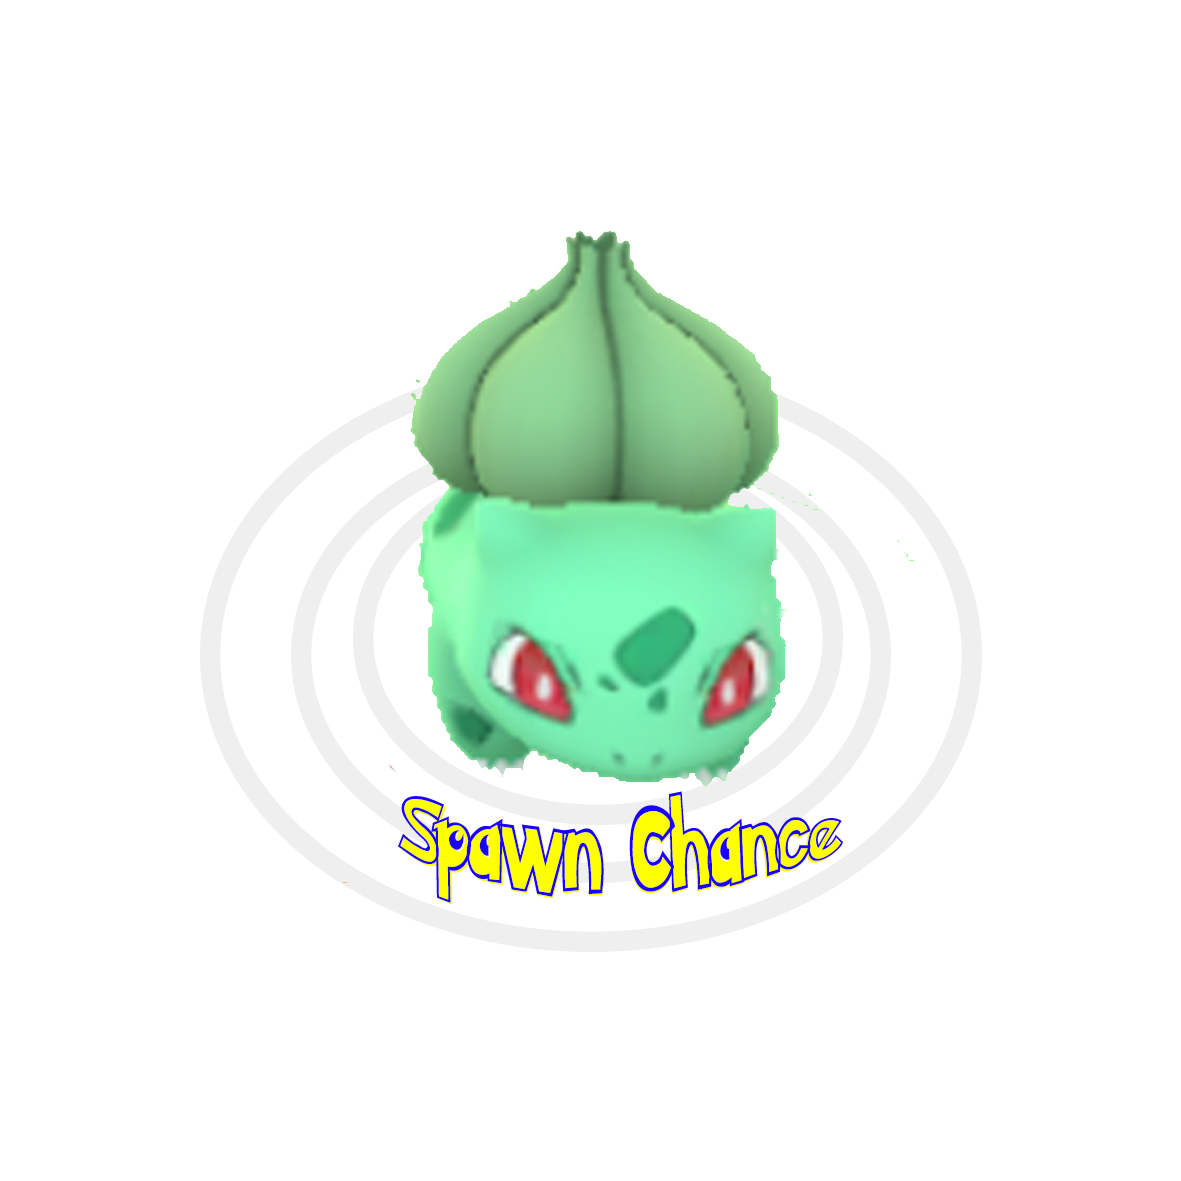
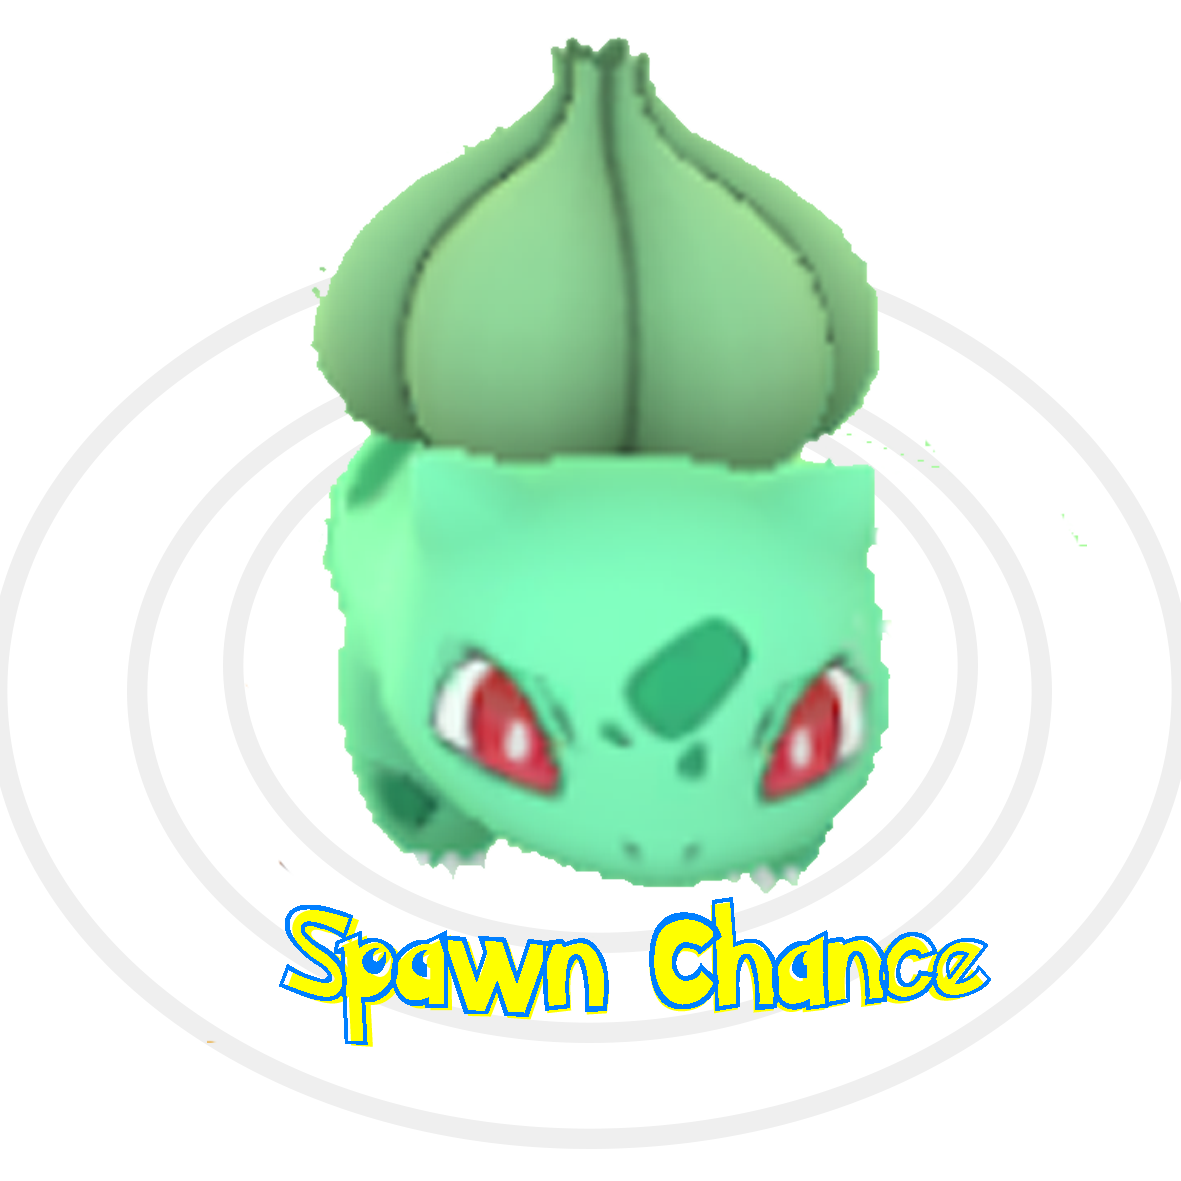
test echos

Changed region(s): [[0.2439, 0.0305, 0.8535, 0.8535], [0.2439, 0.7621, 0.5182, 0.884]]

diff --git a/src/index.html b/src/index.html
@@ -3,9 +3,12 @@
   <head>
     <meta charset="utf-8">
     <title>Data Lovers</title>
-    <link rel="stylesheet" href="style.css" />
+    <link rel="stylesheet" href="style.css"/>
   </head>
   <body>
+    <header class="headerStyle"><img src="botones/logo.png" alt="" width="400"></header>
+
+
     <section id="root"></section>
     <!-- bloque de registro-->
     <div id="welcomePage" class="welcomePage" >
@@ -27,27 +30,27 @@
 
 
     <div  id ="buttonsType"  class="buttonsType display_block">
-        <button  class="pokeType" value="Bug"><img src="botones/bug.png" alt="" width="100"></button>
-        <button class="pokeType" value="Dragon"><img src="botones/dragon.png" alt="" width="100"></button>
-        <button  class="pokeType" value="Grass"><img src="botones/grass.png" alt="" width="100"></button>
-        <button class="pokeType" value="Ground"><img src="botones/ground.png" alt="" width="100"></button>
-        <button class="pokeType" value="Fighting"><img src="botones/fighting.png" alt="" width="100"></button>
-        <button class="pokeType" value="Rock"><img src="botones/rock.png" alt="" width="100"></button>
-        <button class="pokeType" value="Ice"><img src="botones/ice.png" alt="" width="100"></button>
-        <button class="pokeType" value="Flying"><img src="botones/flying.png" alt="" width="100"></button>
-        <button class="pokeType" value="Fire"><img src="botones/fire.png" alt="" width="100"></button>
-        <button class="pokeType" value="Ghost"><img src="botones/ghost.png" alt="" width="100"></button>
-        <button class="pokeType" value="Electric"><img src="botones/electric.png" alt="" width="100"></button>
-        <button class="pokeType" value="Water"><img src="botones/water.png" alt="" width="100"></button>
-        <button class="pokeType" value="Psychic"><img src="botones/psychic.png" alt="" width="100"></button>
-       <button class="pokeType" value="Poison"><img src="botones/poison.png" alt="" width="100"></button>
-        <button class="pokeType" value="Normal"><img src="botones/normal.png" alt="" width="100"></button>
+        <button  class="pokeType buttonStyles" value="Bug"><img src="botones/bug.png" alt="" width="100"></button>
+        <button class="pokeType buttonStyles" value="Dragon"><img src="botones/dragon.png" alt="" width="100"></button>
+        <button  class="pokeType buttonStyles" value="Grass"><img src="botones/grass.png" alt="" width="100"></button>
+        <button class="pokeType buttonStyles" value="Ground"><img src="botones/ground.png" alt="" width="100"></button>
+        <button class="pokeType buttonStyles" value="Fighting"><img src="botones/fighting.png" alt="" width="100"></button>
+        <button class="pokeType buttonStyles" value="Rock"><img src="botones/rock.png" alt="" width="100"></button>
+        <button class="pokeType buttonStyles" value="Ice"><img src="botones/ice.png" alt="" width="100"></button>
+        <button class="pokeType buttonStyles" value="Flying"><img src="botones/flying.png" alt="" width="100"></button>
+        <button class="pokeType buttonStyles" value="Fire"><img src="botones/fire.png" alt="" width="100"></button>
+        <button class="pokeType buttonStyles" value="Ghost"><img src="botones/ghost.png" alt="" width="100"></button>
+        <button class="pokeType buttonStyles" value="Electric"><img src="botones/electric.png" alt="" width="100"></button>
+        <button class="pokeType buttonStyles" value="Water"><img src="botones/water.png" alt="" width="100"></button>
+        <button class="pokeType buttonStyles" value="Psychic"><img src="botones/psychic.png" alt="" width="100"></button>
+       <button class="pokeType buttonStyles" value="Poison"><img src="botones/poison.png" alt="" width="100"></button>
+        <button class="pokeType buttonStyles" value="Normal"><img src="botones/normal.png" alt="" width="100"></button>
     </div>
 
 
 
 
-<div>
+<div class="containingImg">
     <span id ="img"> </span>
 </div>
 
@@ -66,14 +69,14 @@
 
 
   <div>
-    <button id="calculo" class="hidden" value="spawn_chance">calculo</button>
+    <button id="calculo" class="hidden buttonStyles" value="spawn_chance"><img src="botones/spawnChance.png" alt="" width="100"></button>
     <h2 id="result" class="hidden">El pokemon con Mayor Spawn chance dentro de este Tipo es:</h2>
     <p id="spawnResult"></p>
 </div>
 
 
-  
-  
+
+
   <script src="./data/pokemon/pokemon.js"></script>
     <script src="data.js"></script>
     <script src="main.js"></script>

diff --git a/src/style.css b/src/style.css
@@ -1,13 +1,41 @@
+@import url("https://fonts.googleapis.com/css?family=Anonymous+Pro|Orbitron|Patrick+Hand|Press+Start+2P|Prompt|VT32");
+
+body {
+  background: rgba(74,188,167,1);
+  background: -moz-linear-gradient(top, rgba(74,188,167,1) 0%, rgba(143,242,206,1) 16%, rgba(212,242,208,1) 42%, rgba(235,254,216,1) 50%, rgba(243,254,212,1) 59%, rgba(253,210,178,1) 72%, rgba(252,204,175,1) 80%, rgba(250,179,161,1) 94%, rgba(250,179,161,1) 100%);
+  background: -webkit-linear-gradient(top, rgba(74,188,167,1) 0%, rgba(143,242,206,1) 16%, rgba(212,242,208,1) 42%, rgba(235,254,216,1) 50%, rgba(243,254,212,1) 59%, rgba(253,210,178,1) 72%, rgba(252,204,175,1) 80%, rgba(250,179,161,1) 94%, rgba(250,179,161,1) 100%);
+  background: -o-linear-gradient(top, rgba(74,188,167,1) 0%, rgba(143,242,206,1) 16%, rgba(212,242,208,1) 42%, rgba(235,254,216,1) 50%, rgba(243,254,212,1) 59%, rgba(253,210,178,1) 72%, rgba(252,204,175,1) 80%, rgba(250,179,161,1) 94%, rgba(250,179,161,1) 100%);
+  background: -ms-linear-gradient(top, rgba(74,188,167,1) 0%, rgba(143,242,206,1) 16%, rgba(212,242,208,1) 42%, rgba(235,254,216,1) 50%, rgba(243,254,212,1) 59%, rgba(253,210,178,1) 72%, rgba(252,204,175,1) 80%, rgba(250,179,161,1) 94%, rgba(250,179,161,1) 100%);
+  background: linear-gradient(to bottom, rgba(74,188,167,1) 0%, rgba(143,242,206,1) 16%, rgba(212,242,208,1) 42%, rgba(235,254,216,1) 50%, rgba(243,254,212,1) 59%, rgba(253,210,178,1) 72%, rgba(252,204,175,1) 80%, rgba(250,179,161,1) 94%, rgba(250,179,161,1) 100%);
+  background-size: cover;
+  background-attachment: fixed;
+  display: inline-block;
+
+}
+
 .buttonsType {
   width: 1000px;
   margin-top: 200px;
   margin-left: 300px;
 }
 
+.buttonStyles {
+
+  background-color: transparent;
+  border-style: none;
+}
 
 .caja-pokemon{
 float: left;
+margin-left: 10%;
 }
+
+.containingImg {
+margin-left: 4%;
+background-color: black;
+
+}
+
 
 .contenedor{
   display: inline-block;
@@ -19,17 +47,21 @@ float: left;
   width: 300px;
   height: 300px;
   perspective: 1000px;
+
+
 }
 
 .flip-card-inner {
 
   position: relative;
-  width: 90%;
+  width: 85%;
   height: 90%;
   text-align: center;
   transition: transform 0.6s;
   transform-style: preserve-3d;
-  box-shadow: 0 4px 8px 0 rgba(0,0,0,0.2);
+
+  border-color: black;
+
 }
 
 .flip-card:hover .flip-card-inner {
@@ -41,22 +73,29 @@ float: left;
   height: 100%;
   backface-visibility: hidden;
   position: absolute;
+  border-color: black;
 }
 
 .flip-card-front {
 
-  background-color: #f3f3f3;
+  background-color: transparent;
   color: black;
   z-index: 2;
+  border-style: solid;
+  border-color: white;
+  border-width: thick;
+
 }
 
 .flip-card-back {
 
-  background-color: #2980b9;
+  background-color: #4abca7;
   color: white;
   transform: rotateY(180deg);
   z-index: -1;
   position: absolute;
+  margin-left: 0%;
+  border-color: black;
 }
 
 .display_none {
@@ -72,4 +111,11 @@ float: left;
 
 .show {
   display:block;
+}
+
+.headerStyle {
+background-color: transparent;
+border-style: none;
+
+
 }

diff --git a/src/main.js b/src/main.js
@@ -23,10 +23,9 @@ let selectType = Array.from(document.getElementsByClassName('pokeType'));
 
         let condition = buttonsArray.value;
         let filtered = window.allPokemon.filterType(data, condition);
-
         showPokemons(filtered);
         selectOrder(filtered);
-        calculateSpawnChance(filtered);
+        calcSpawnChance(filtered);
     });
 
 
@@ -55,18 +54,18 @@ let selectType = Array.from(document.getElementsByClassName('pokeType'));
 
 }
 
-
+//--------------------------------------calculo/-----------------------------------------------------
 function calcSpawnChance (filtered){
   let calc = document.getElementById('calculo');
   calc.addEventListener('click',()=>{
     let clearWindow = containerRoot.innerHTML = '';
+
     let compute = window.allPokemon.computeStats(filtered);
     document.getElementById('result').setAttribute("class","show");
     document.getElementById('calculo').setAttribute('class','hidden');
     document.getElementById('orderBy').setAttribute('class','hidden');
     document.getElementById('spawnResult', 'result').innerHTML = compute;
     });
-
 }
 
 
